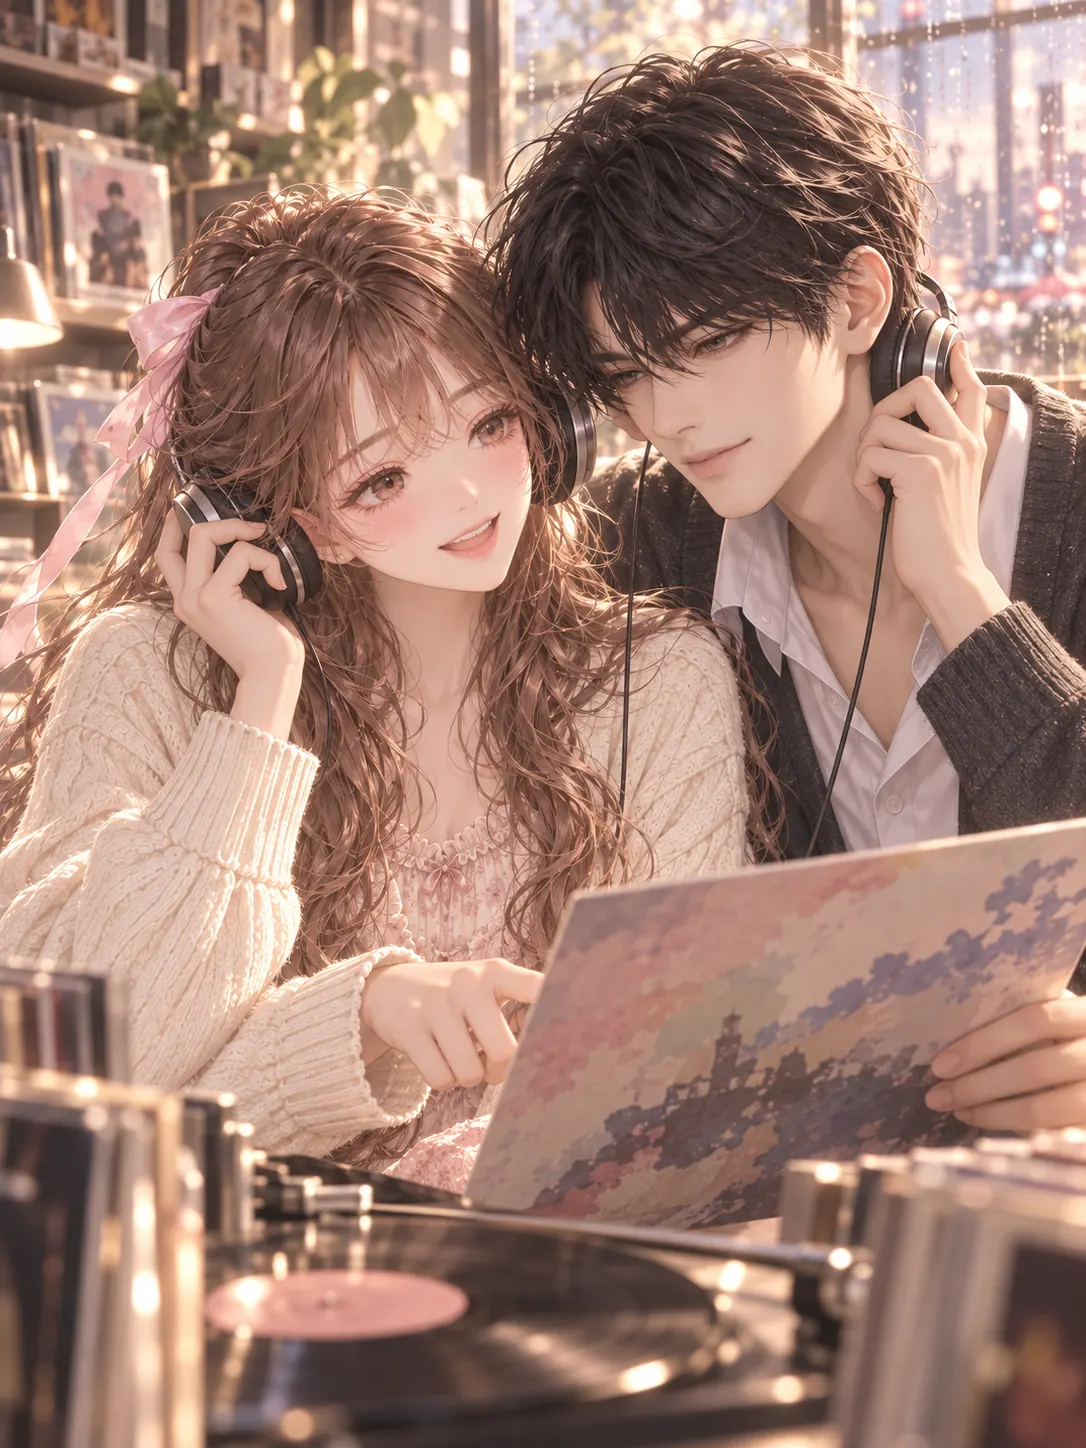
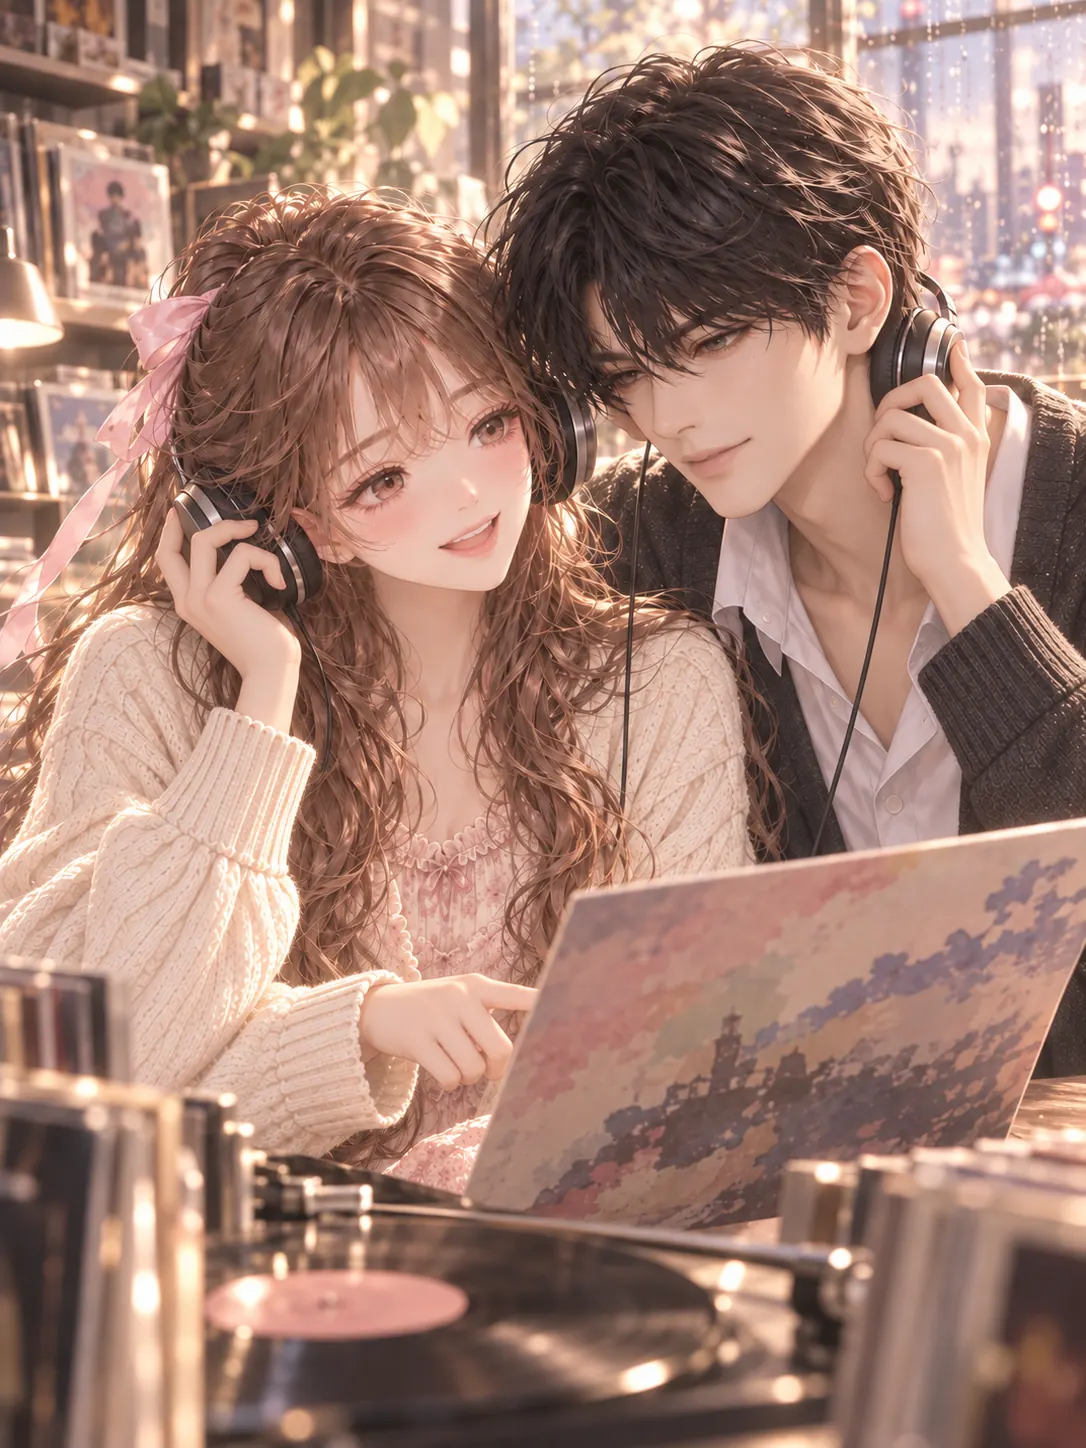
Repair hand anatomy in three illustrations
Repair Lu’s hair-drying hands, Gu’s record-shop hand poses, and the extra third male hand in Zhou’s umbrella illustration. Preserve the existing character identities, artwork style and asset IDs.

Review all 113 current game illustrations and inspect reported or complex hand overlaps at original size. Keep the fixes compact as JPEG/WebP copies and add per-image cache revisions so old saves and unlocked galleries show the repaired artwork.

Validation: source and release UI at 320, 390, 768 and 1440 widths; all three repaired scene images, old saves, galleries, versioned WebP loading and JPEG fallback passed. Real iOS/WeChat devices were not tested. legacy-v2.html is unchanged.

Release: c284612af38d
Local source commit: 67e2fde

diff --git a/index.html b/index.html
@@ -1,5 +1,5 @@
 <!doctype html>
-<html lang="zh-CN"><head><meta name="release-id" content="c7772ff6c5f6"><meta charset="utf-8"><meta name="viewport" content="width=device-width,initial-scale=1,viewport-fit=cover"><meta name="theme-color" content="#171d27"><meta name="description" content="心动未读·城市回声。由你的选择决定关系与生活的互动小说。"><title>心动未读 · 城市回声</title><link rel="stylesheet" href="style.css?v=c7772ff6c5f6"><script src="core.js?v=c7772ff6c5f6" defer></script><script src="common.js?v=c7772ff6c5f6" defer></script><script src="routes.js?v=c7772ff6c5f6" defer></script><script src="revision.js?v=c7772ff6c5f6" defer></script><script src="life.js?v=c7772ff6c5f6" defer></script><script src="endings.js?v=c7772ff6c5f6" defer></script><script src="story-tools.js?v=c7772ff6c5f6" defer></script><script src="common-long.js?v=c7772ff6c5f6" defer></script><script src="gu-long.js?v=c7772ff6c5f6" defer></script><script src="zhou-long.js?v=c7772ff6c5f6" defer></script><script src="lu-long.js?v=c7772ff6c5f6" defer></script><script src="wen-long.js?v=c7772ff6c5f6" defer></script><script src="city-days.js?v=c7772ff6c5f6" defer></script><script src="encounters.js?v=c7772ff6c5f6" defer></script><script src="season-cities.js?v=c7772ff6c5f6" defer></script><script src="personal-focus.js?v=c7772ff6c5f6" defer></script><script src="gu-private.js?v=c7772ff6c5f6" defer></script><script src="zhou-private.js?v=c7772ff6c5f6" defer></script><script src="lu-private.js?v=c7772ff6c5f6" defer></script><script src="wen-private.js?v=c7772ff6c5f6" defer></script><script src="together-art.js?v=c7772ff6c5f6" defer></script><script src="gu-together.js?v=c7772ff6c5f6" defer></script><script src="zhou-together.js?v=c7772ff6c5f6" defer></script><script src="lu-together.js?v=c7772ff6c5f6" defer></script><script src="wen-together.js?v=c7772ff6c5f6" defer></script><script src="weekend-art.js?v=c7772ff6c5f6" defer></script><script src="gu-weekends.js?v=c7772ff6c5f6" defer></script><script src="zhou-weekends.js?v=c7772ff6c5f6" defer></script><script src="lu-weekends.js?v=c7772ff6c5f6" defer></script><script src="wen-weekends.js?v=c7772ff6c5f6" defer></script><script src="afternoon-art.js?v=c7772ff6c5f6" defer></script><script src="gu-afternoons.js?v=c7772ff6c5f6" defer></script><script src="zhou-afternoons.js?v=c7772ff6c5f6" defer></script><script src="lu-afternoons.js?v=c7772ff6c5f6" defer></script><script src="wen-afternoons.js?v=c7772ff6c5f6" defer></script><script src="season-art.js?v=c7772ff6c5f6" defer></script><script src="gu-season.js?v=c7772ff6c5f6" defer></script><script src="zhou-season.js?v=c7772ff6c5f6" defer></script><script src="lu-season.js?v=c7772ff6c5f6" defer></script><script src="wen-season.js?v=c7772ff6c5f6" defer></script><script src="gu-future.js?v=c7772ff6c5f6" defer></script><script src="zhou-future.js?v=c7772ff6c5f6" defer></script><script src="lu-future.js?v=c7772ff6c5f6" defer></script><script src="wen-future.js?v=c7772ff6c5f6" defer></script><script src="future-art.js?v=c7772ff6c5f6" defer></script><script src="app.js?v=c7772ff6c5f6" defer></script></head>
+<html lang="zh-CN"><head><meta name="release-id" content="c284612af38d"><meta charset="utf-8"><meta name="viewport" content="width=device-width,initial-scale=1,viewport-fit=cover"><meta name="theme-color" content="#171d27"><meta name="description" content="心动未读·城市回声。由你的选择决定关系与生活的互动小说。"><title>心动未读 · 城市回声</title><link rel="stylesheet" href="style.css?v=c284612af38d"><script src="core.js?v=c284612af38d" defer></script><script src="common.js?v=c284612af38d" defer></script><script src="routes.js?v=c284612af38d" defer></script><script src="revision.js?v=c284612af38d" defer></script><script src="life.js?v=c284612af38d" defer></script><script src="endings.js?v=c284612af38d" defer></script><script src="story-tools.js?v=c284612af38d" defer></script><script src="common-long.js?v=c284612af38d" defer></script><script src="gu-long.js?v=c284612af38d" defer></script><script src="zhou-long.js?v=c284612af38d" defer></script><script src="lu-long.js?v=c284612af38d" defer></script><script src="wen-long.js?v=c284612af38d" defer></script><script src="city-days.js?v=c284612af38d" defer></script><script src="encounters.js?v=c284612af38d" defer></script><script src="season-cities.js?v=c284612af38d" defer></script><script src="personal-focus.js?v=c284612af38d" defer></script><script src="gu-private.js?v=c284612af38d" defer></script><script src="zhou-private.js?v=c284612af38d" defer></script><script src="lu-private.js?v=c284612af38d" defer></script><script src="wen-private.js?v=c284612af38d" defer></script><script src="together-art.js?v=c284612af38d" defer></script><script src="gu-together.js?v=c284612af38d" defer></script><script src="zhou-together.js?v=c284612af38d" defer></script><script src="lu-together.js?v=c284612af38d" defer></script><script src="wen-together.js?v=c284612af38d" defer></script><script src="weekend-art.js?v=c284612af38d" defer></script><script src="gu-weekends.js?v=c284612af38d" defer></script><script src="zhou-weekends.js?v=c284612af38d" defer></script><script src="lu-weekends.js?v=c284612af38d" defer></script><script src="wen-weekends.js?v=c284612af38d" defer></script><script src="afternoon-art.js?v=c284612af38d" defer></script><script src="gu-afternoons.js?v=c284612af38d" defer></script><script src="zhou-afternoons.js?v=c284612af38d" defer></script><script src="lu-afternoons.js?v=c284612af38d" defer></script><script src="wen-afternoons.js?v=c284612af38d" defer></script><script src="season-art.js?v=c284612af38d" defer></script><script src="gu-season.js?v=c284612af38d" defer></script><script src="zhou-season.js?v=c284612af38d" defer></script><script src="lu-season.js?v=c284612af38d" defer></script><script src="wen-season.js?v=c284612af38d" defer></script><script src="gu-future.js?v=c284612af38d" defer></script><script src="zhou-future.js?v=c284612af38d" defer></script><script src="lu-future.js?v=c284612af38d" defer></script><script src="wen-future.js?v=c284612af38d" defer></script><script src="future-art.js?v=c284612af38d" defer></script><script src="app.js?v=c284612af38d" defer></script></head>
 <body><header><button id="home" class="wordmark">♡ 心动未读</button><span class="edition">城市回声</span><button id="menu">手账与存档</button></header>
 <main id="main">
 <section id="cover"><div class="cover-text"><p class="eyebrow">心动未读 · 城市回声</p><p class="intro">今天，你只是想交完设计稿，吃一顿热早餐。<br>一通陌生来电，却让平静的生活偏离了原定的路线。</p><form id="start"><label for="name">怎么称呼你？</label><div class="name-row"><input id="name" value="夏宁" maxlength="12" autocomplete="off"><span>自由设计师</span></div><button class="primary">从这个早晨开始</button></form><button id="resume" hidden>继续上次的故事</button></div><div id="cast" class="cast"></div></section>

diff --git a/app.js b/app.js
@@ -1,6 +1,8 @@
 "use strict";
 (() => {
   const B = window.CITY, $ = id => document.getElementById(id), KEY = "heart-unread-city-v3";
+  // Keep the saved art IDs while invalidating only the repaired image files.
+  const ART_REVISIONS = { lz6: "2e5756f9185f", "gu-records": "c4ce85fd4cea", "lu-hairdry-v2": "a05b66e7969b" };
   let state = null, undo = [], slot = 0, storageOK = true, focusBefore, toastTimer, renderedScene;
   const copy = x => JSON.parse(JSON.stringify(x));
   function read(key, fallback) { try { return JSON.parse(localStorage.getItem(key)) ?? fallback; } catch { return fallback; } }
@@ -27,9 +29,10 @@
   function node(tag, text, cls) { const e = document.createElement(tag); if (text !== undefined) e.textContent = format(text); if (cls) e.className = cls; return e; }
   function button(text, action, cls) { const b = node("button", text, cls); b.type = "button"; b.onclick = action; return b; }
   function setImageSource(im, id) {
-    im.onerror = () => { if (!im.dataset.jpegFallback) { im.dataset.jpegFallback = "1"; im.src = `v3-${id}.jpg`; } };
+    const suffix = ART_REVISIONS[id] ? `?v=${ART_REVISIONS[id]}` : "";
+    im.onerror = () => { if (!im.dataset.jpegFallback) { im.dataset.jpegFallback = "1"; im.src = `v3-${id}.jpg${suffix}`; } };
     delete im.dataset.jpegFallback;
-    im.src = `v3-${id}.webp`;
+    im.src = `v3-${id}.webp${suffix}`;
   }
   function image(id, cls) { const im = node("img", undefined, cls); im.alt = B.assets[id] || "剧情插图"; im.loading = "lazy"; im.decoding = "async"; setImageSource(im, id); return im; }
   function message(text) { $("toast").textContent = text; $("toast").hidden = false; clearTimeout(toastTimer); toastTimer = setTimeout(() => { $("toast").hidden = true; }, 4000); }
